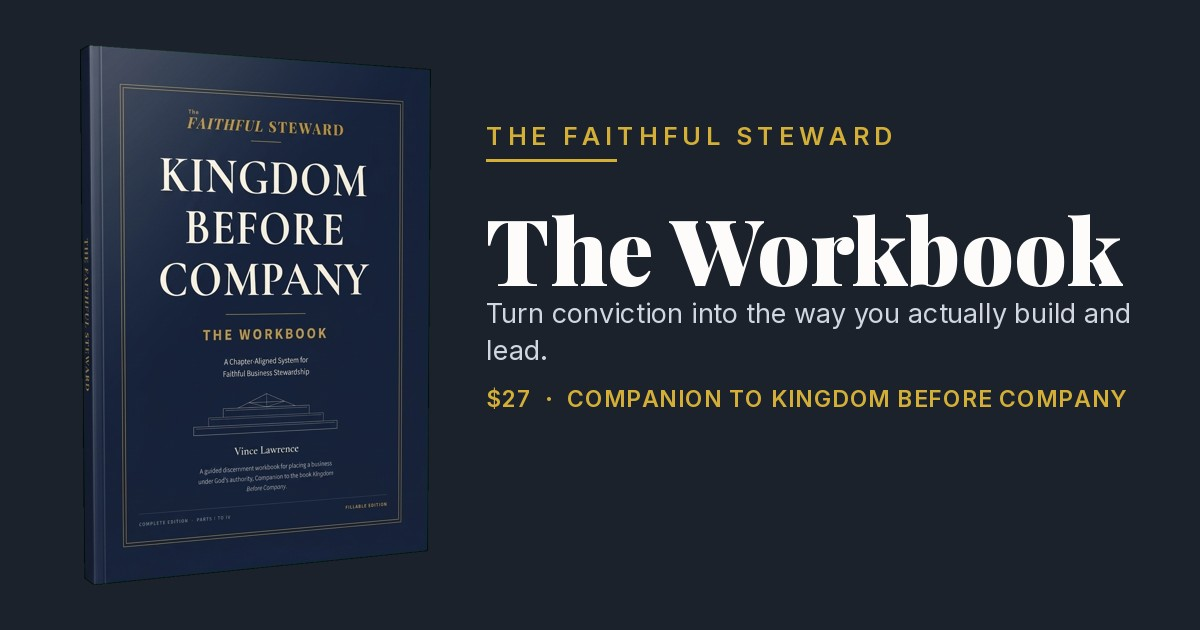
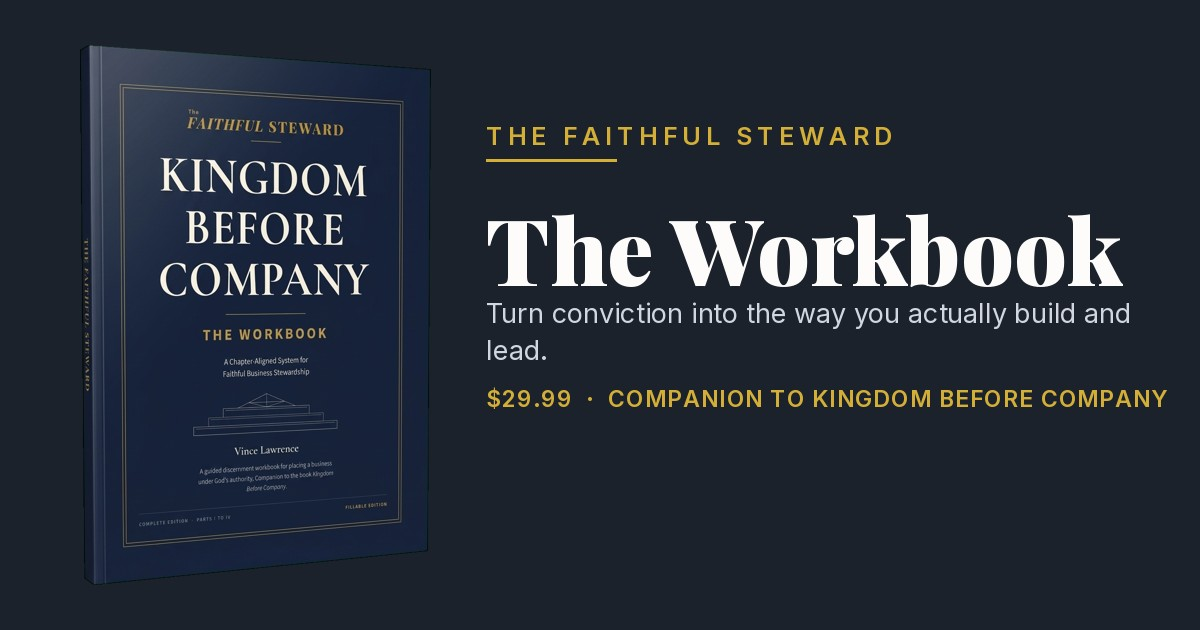
## Workbook Price Updated to $29.99
Changed `WORKBOOK.price` in `src/lib/site.js` to **$29.99**, which cascades to the Workbook hero price line ("$29.99 one-time · 8.5 x 11 printable PDF ...") and the sticky buy bar. Also regenerated the Workbook social share card so it reads "$29.99 · Companion to Kingdom Before Company". No other hardcoded price references exist. Build compiles clean.

Reminder: preview only — use **Save to GitHub → Vercel** to push live, then re-scrape the link so social platforms refresh the updated card.

- Next Action Items:
  - **Turn On Checkout**: Add your Stripe Payment Link so the workbook CTA becomes a real "Buy · $29.99"
  - **Real Quotes**: Send a few real early-reader endorsements to replace the placeholders in the trust section
  - **Go Live Links**: Drop your Amazon paperback/Kindle URLs into `src/lib/site.js` so the Book buttons flip from Coming Soon to Buy

Changed region(s): [[0.4317, 0.6032, 0.9867, 0.6635]]

diff --git a/src/lib/site.js b/src/lib/site.js
@@ -27,7 +27,7 @@ export const BOOK = {
 export const WORKBOOK = {
   title: 'The Faithful Steward Workbook',
   subtitle: 'Thirty chapter-aligned tools for faithful business stewardship',
-  price: '$27',
+  price: '$29.99',
   cover: '/workbook-cover.webp',
   // Set VITE_STRIPE_PAYMENT_LINK in your Vercel env to enable checkout.
   paymentLink: import.meta.env.VITE_STRIPE_PAYMENT_LINK || '',
